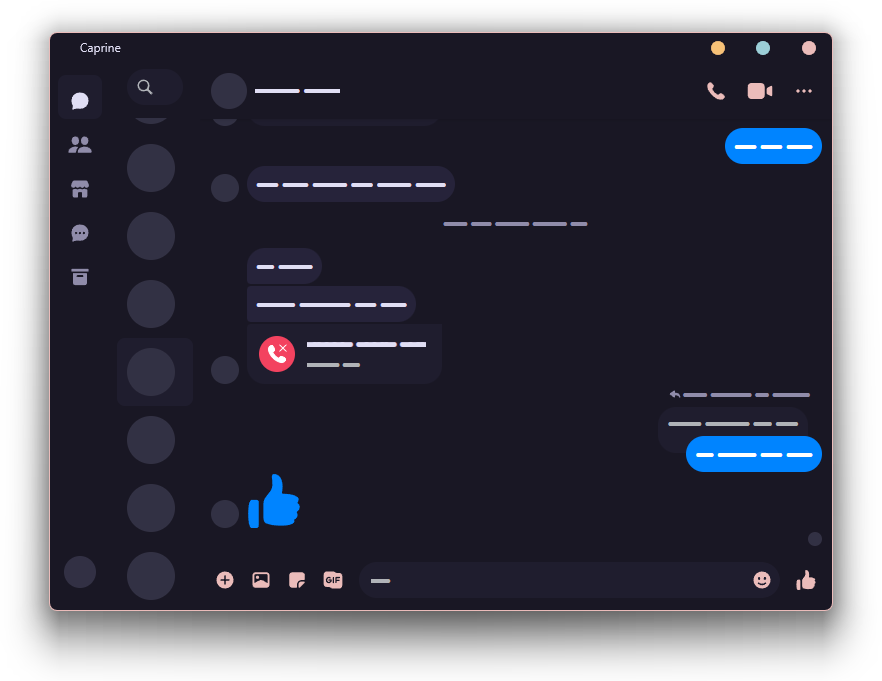
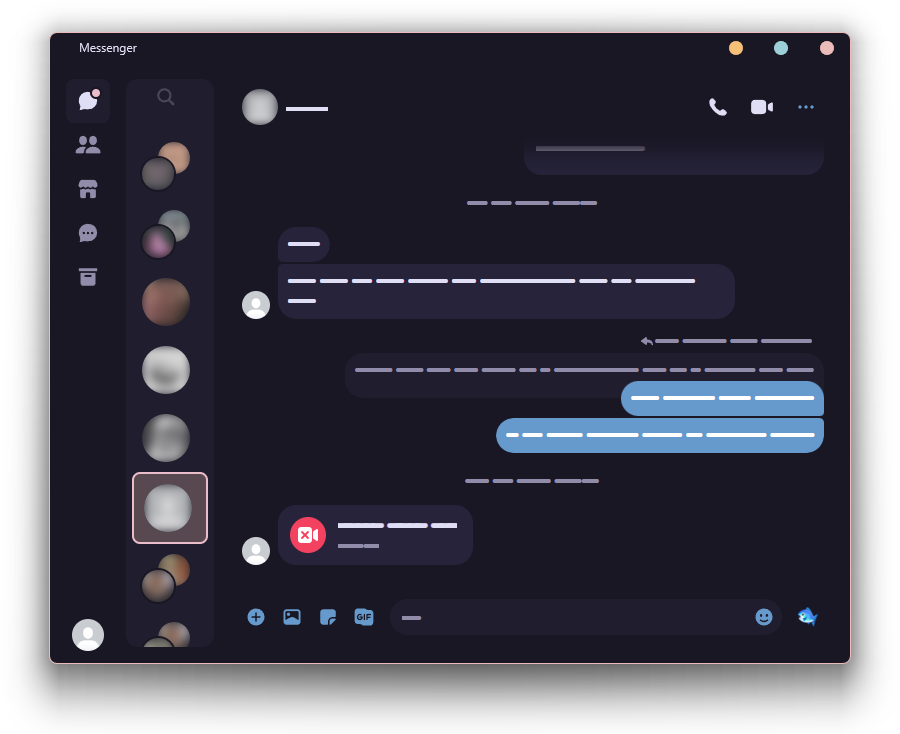
update caprine

diff --git a/caprine/custom.css b/caprine/custom.css
@@ -8,47 +8,52 @@ Edit them to change color scheme of Caprine.
 Press Command/Ctrl+R in Caprine to see your changes.
 */
 
-/* scrollbar */
-::-webkit-scrollbar {
-    display: none;
-}
-
-/* focus border */
-:focus {
-    outline: thin dotted;
-}
-
-/* search bar */
-[class="x1i10hfl xggy1nq x1s07b3s x1kdt53j x1yc453h xhb22t3 xb5gni xcj1dhv x2s2ed0 xq33zhf xjyslct xjbqb8w x6umtig x1b1mbwd xaqea5y xav7gou xnwf7zb x40j3uw x1s7lred x15gyhx8 x9f619 xzsf02u xdl72j9 x1iyjqo2 xs83m0k xjb2p0i x6prxxf xeuugli x1a2a7pz x1n2onr6 x15h3p50 xm7lytj xsyo7zv xdvlbce x16hj40l xc9qbxq xo6swyp x1ad04t7 x1glnyev x1ix68h3 x19gujb8"]::placeholder {
-    color: transparent !important;
-}
-
-/* download app button */
-[class="x9f619 x1n2onr6 x1ja2u2z x78zum5 x1r8uery xs83m0k xeuugli x1qughib x6s0dn4 xozqiw3 x1q0g3np xb756pt x1c4vz4f xt55aet xexx8yu xc73u3c x18d9i69 x5ib6vp x1lku1pv x12nzpgo"] {
-    display: none !important;
-}
-[class="xuk3077 x78zum5 x6prxxf xz9dl7a xsag5q8"] svg path,
-[class="x1u998qt x1vjfegm"] svg path {
-    fill: #ebbcba !important;
-}
-
 /* colors */
 .__fb-dark-mode,
 .__fb-light-mode {
+    --accent: hsl(342, 54%, 83%) !important;
+    --blue-link: var(--accent) !important;
+    --focus-ring-blue: var(--accent) !important;
+    --primary-button-background: var(--accent) !important;
+    --primary-button-pressed: var(--accent) !important;
+    --primary-deemphasized-button-text: var(--accent) !important;
+    --progress-ring-blue-foreground: var(--accent) !important;
+    --switch-active: var(--accent) !important;
+    --input-label-color-highlighted: var(--accent) !important;
+    --toast-text-link: var(--accent) !important;
+    --toggle-active-background: var(--accent) !important;
+    --switch-active: var(--accent) !important;
+    --input-label-color-highlighted: var(--accent) !important;
+    --toggle-active-background: var(--accent) !important;
     --card-background: #191724 !important /* menu */;
     --messenger-card-background: #191724 !important; /* main */
     --surface-background: #191724 !important; /* sidebar */
     --pressable-background-color-selected: #1f1d2e !important; /* selected color */
-    --pressable-background-color-hover: rgba(0, 0, 0, 0.1) !important; /* hovered color */
+    --pressable-background-color-hover: rgba(
+        0,
+        0,
+        0,
+        0.1
+    ) !important; /* hovered color */
     --chat-incoming-message-bubble-background-color: #26233a !important; /* chat bubble */
     --chat-replied-message-background-color: #1f1d2e !important; /* reply bubble */
     --comment-background: #1f1d2e !important; /* chat box */
-    --always-black: #908caa !important; /* black icon fix */
     --divider: transparent !important;
     --primary-icon: #e0def4 !important;
+    --primary-button-icon: #191724 !important;
     --primary-text: #e0def4 !important;
+    --primary-button-text: #191724 !important;
+    --toggle-active-icon: #e0def4 !important;
+    --toggle-active-text: #e0def4 !important;
+    --icon-primary-color: #e0def4 !important;
+    --icon-selected-color: #e0def4 !important;
+    --icon-white-color: #e0def4 !important;
     --placeholder-icon: #908caa !important;
     --placeholder-text: #908caa !important;
+    --secondary-button-text: #908caa !important;
+    --secondary-icon: #908caa !important;
+    --secondary-text: #908caa !important;
+    --icon-inactive-color: #908caa !important;
     --media-inner-border: transparent !important;
     --media-outer-border: transparent !important;
     --card-background-flat: #191724 !important; /* tooltips */
@@ -58,4 +63,50 @@ Press Command/Ctrl+R in Caprine to see your changes.
     --secondary-button-background-floating: #26233a !important;
     --hover-overlay: rgba(0, 0, 0, 0.1) !important;
     --press-overlay: rgba(0, 0, 0, 0.2) !important;
+    --messenger-card-box-shadow: none !important;
+    --wash: #1f1d2e !important;
+    --web-wash: #191724 !important;
+}
+
+/* scrollbar */
+.x16o0dkt {
+    scrollbar-width: none !important;
+}
+
+/* focus outline */
+:focus {
+    outline: none;
+}
+
+/* download app button */
+[class="x9f619 x1n2onr6 x1ja2u2z x78zum5 x1r8uery xs83m0k xeuugli x1qughib x6s0dn4 xozqiw3 x1q0g3np xb756pt x1c4vz4f xt55aet xexx8yu xc73u3c x18d9i69 x5ib6vp x1lku1pv x12nzpgo"] {
+    display: none !important;
+}
+
+/* caprine bug fix pr#2155 */
+.__fb-dark-mode {
+    --header-height: 0px !important;
+}
+
+/* loading background color & splash screen */
+html, #messenger-splash-screen {
+    background-color: #191724 !important;
+}
+
+/* thread list */
+div[aria-label="Thread list"] {
+    background-color: #1f1d2e !important;
+}
+div[aria-label="Thread list"] .x1ry3o7a {
+    background-color: rgb(88, 72, 80) !important;
+    border: 2px solid #ebbcca !important;
+}
+
+/* header & composer fade */
+.x1u998qt {
+    box-shadow: 0 0 20px 20px var(--mwp-header-background-color) !important;
+}
+div:has(> div[aria-label="Thread composer"]) {
+    box-shadow: 0 0 20px 20px var(--chat-composer-background-color) !important;
+    z-index: 1;
 }
